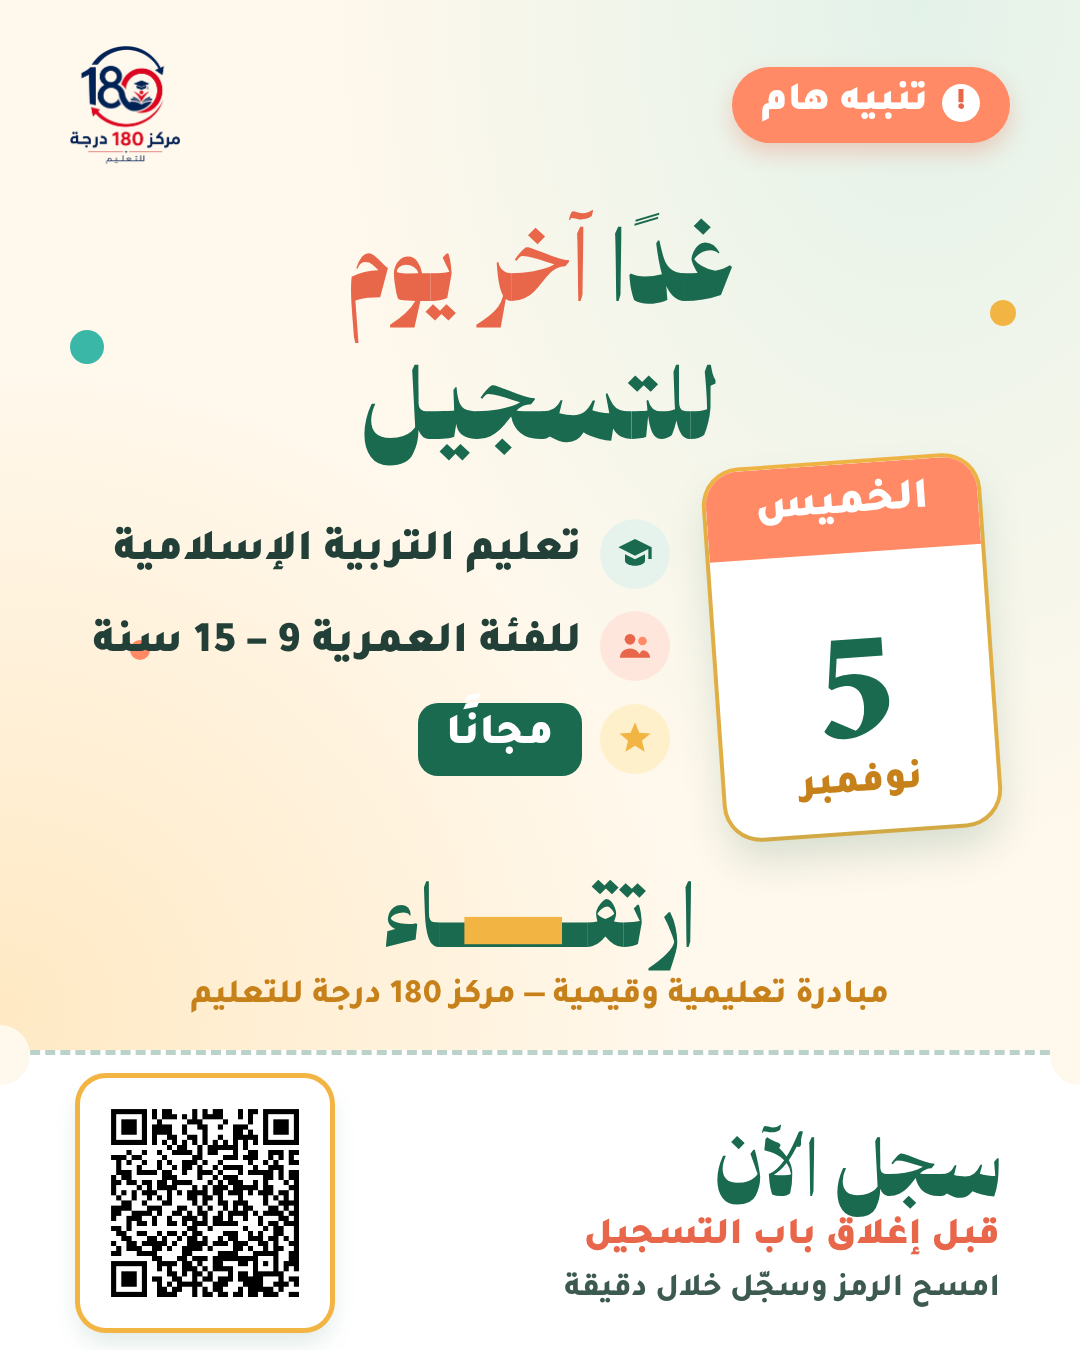
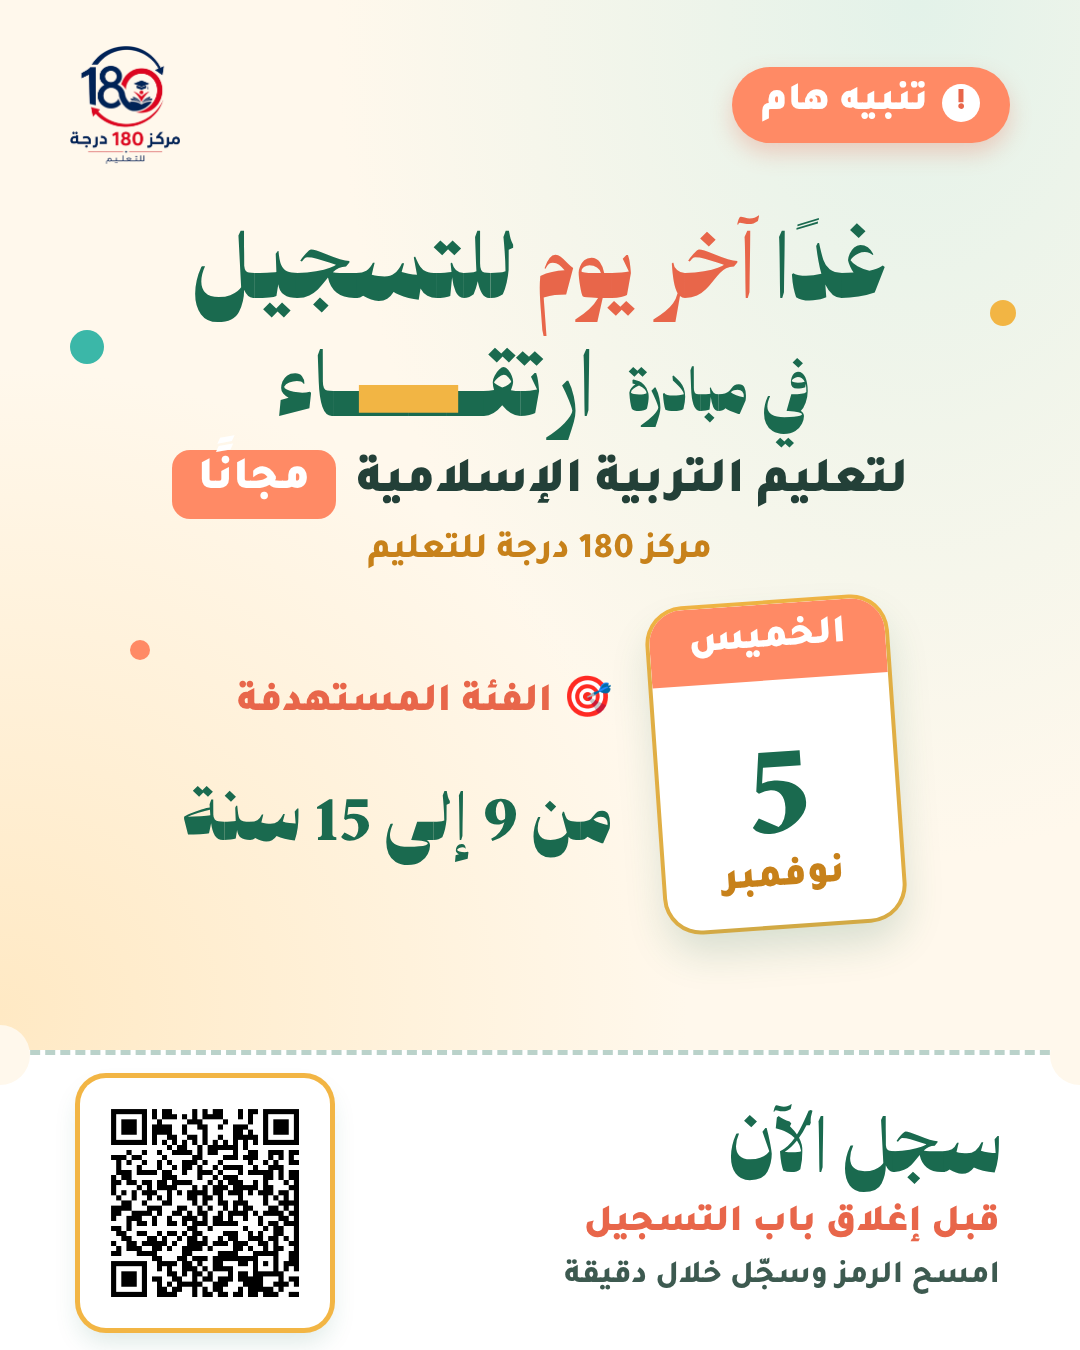
Last-day post: text order per announcement, CTA spacing fix
Claude-Session: https://claude.ai/code/session_01EW5L56JmWuYDA27LmftDCS

Changed region(s): [[0.0917, 0.1556, 0.9167, 0.7467], [0.5194, 0.8089, 0.9472, 0.9644], [0.9167, 0.4978, 0.9472, 0.5911]]

diff --git a/irtiqaa-registration/last-day/post.html b/irtiqaa-registration/last-day/post.html
@@ -22,33 +22,39 @@ html,body{margin:0;background:#fff}
 .logo{height:118px}
 
 /* headline */
-.h1{margin-top:16px;font-size:106px;line-height:1.3;color:var(--em);text-align:center}
+.h1{margin-top:22px;font-size:96px;line-height:1.35;white-space:nowrap;color:var(--em);text-align:center}
 .h1 .hl{position:relative;display:inline-block;color:var(--coralD)}
 .h1 .hl::after{content:'';position:absolute;left:4%;right:4%;bottom:22px;height:22px;background:var(--gold);opacity:.55;border-radius:12px;z-index:-1}
 
 /* middle: calendar + facts */
-.mid{margin-top:8px;width:100%;display:flex;align-items:center;justify-content:center;gap:46px}
-.cal{position:relative;width:272px;flex:none;background:#fff;border-radius:34px;overflow:hidden;box-shadow:0 22px 40px rgba(26,106,79,.18),0 0 0 4px var(--gold);transform:rotate(-4deg)}
-.cal .hd{background:var(--coral);color:#fff;text-align:center;font-weight:900;font-size:44px;padding:16px 0 20px}
+.mid{margin-top:30px;width:100%;display:flex;align-items:center;justify-content:center;gap:46px}
+.cal{position:relative;width:236px;flex:none;background:#fff;border-radius:34px;overflow:hidden;box-shadow:0 22px 40px rgba(26,106,79,.18),0 0 0 4px var(--gold);transform:rotate(-4deg)}
+.cal .hd{background:var(--coral);color:#fff;text-align:center;font-weight:900;font-size:40px;padding:12px 0 16px}
 .cal .rings{position:absolute;top:-14px;left:0;right:0;display:flex;justify-content:space-around;padding:0 60px}
 .cal .rings span{width:20px;height:40px;border-radius:12px;background:var(--emD)}
-.cal .day{text-align:center;font-family:'Palestine';font-size:168px;line-height:1.12;color:var(--em);padding-top:6px}
+.cal .day{text-align:center;font-family:'Palestine';font-size:138px;line-height:1.12;color:var(--em);padding-top:6px}
 .cal .mon{text-align:center;font-weight:900;font-size:40px;color:var(--goldD);padding:14px 0 22px}
 .facts{display:flex;flex-direction:column;gap:22px;align-items:flex-start}
 .fact{display:flex;align-items:center;gap:18px;font-weight:900;font-size:44px;color:var(--ink)}
 .fact .ic{width:70px;height:70px;border-radius:50%;flex:none;display:flex;align-items:center;justify-content:center}
 .fact .ic svg{width:40px;height:40px}
-.free{background:var(--em);color:#fff;padding:8px 28px 12px;border-radius:20px}
+.free{background:var(--coral);color:#fff;padding:4px 26px 10px;border-radius:18px;font-size:46px}
 
 /* wordmark line */
 .brand{margin-top:22px;display:flex;flex-direction:column;align-items:center}
-#wm{height:118px}
+#wm{height:120px}
+.line1{margin-top:4px;display:flex;align-items:center;gap:26px}
+.line1 .fi{font-size:64px;color:var(--em);line-height:1.4}
+.line2{margin-top:10px;font-weight:900;font-size:50px;color:var(--ink);display:flex;align-items:center;gap:20px}
+.line3{margin-top:12px;font-weight:800;font-size:36px;color:var(--goldD)}
+.tg-l{font-weight:900;font-size:40px;color:var(--coralD)}
+.tg-v{font-family:'Palestine';font-size:70px;color:var(--em);line-height:1.4;margin-top:6px}
 .brand .sub{font-weight:800;font-size:34px;color:var(--goldD);margin-top:6px}
 
 /* CTA strip */
 .cta{position:absolute;left:0;right:0;bottom:0;background:#fff;border-top:5px dashed rgba(26,106,79,.3);display:flex;align-items:center;justify-content:space-between;padding:0 80px}
 .notch{position:absolute;top:-30px;width:60px;height:60px;border-radius:50%;background:var(--iv)}
-.cta .txt .a{font-size:84px;color:var(--em);line-height:1.4}
+.cta .txt .a{font-size:80px;color:var(--em);line-height:1.2;margin-top:-26px;margin-bottom:22px}
 .cta .txt .b{font-size:38px;font-weight:900;color:var(--coralD);margin-top:2px}
 .cta .txt .c{font-size:32px;font-weight:800;color:#3D5A50;margin-top:10px}
 .qr{width:250px;height:250px;flex:none;background:#fff;border-radius:26px;box-shadow:0 0 0 5px var(--gold),0 14px 26px rgba(26,106,79,.15);display:flex;align-items:center;justify-content:center}
@@ -67,24 +73,21 @@ html,body{margin:0;background:#fff}
       <img class="logo" src="../assets/logo180.png">
     </div>
 
-    <div class="h1 disp">غدًا <span class="hl">آخر يوم</span><br>للتسجيل</div>
+    <div class="h1 disp">غدًا <span class="hl">آخر يوم</span> للتسجيل</div>
+    <div class="line1"><span class="disp fi">في مبادرة</span><div id="wm"></div></div>
+    <div class="line2">لتعليم التربية الإسلامية <span class="free">مجانًا</span></div>
+    <div class="line3">مركز 180 درجة للتعليم</div>
 
     <div class="mid">
       <div class="cal">
-                <div class="hd">الخميس</div>
+        <div class="hd">الخميس</div>
         <div class="day">5</div>
         <div class="mon">نوفمبر</div>
       </div>
       <div class="facts">
-        <div class="fact"><span class="ic" style="background:var(--emL)"><svg viewBox="0 0 24 24"><path d="M12 3 2 8l10 5 8-4v6h2V8z M6 12.2V16c0 1.7 2.7 3 6 3s6-1.3 6-3v-3.8l-6 3z" fill="#1A6A4F"/></svg></span>تعليم التربية الإسلامية</div>
-        <div class="fact"><span class="ic" style="background:#FFE6DD"><svg viewBox="0 0 24 24"><circle cx="9" cy="8" r="3.2" fill="#E8664A"/><circle cx="16.5" cy="9" r="2.6" fill="#FF8A65"/><path d="M3 19c0-3.3 2.7-5.5 6-5.5s6 2.2 6 5.5z M14 19c.2-2 1.2-3.6 2.6-4.4 2.6.1 4.4 1.9 4.4 4.4z" fill="#E8664A"/></svg></span>للفئة العمرية 9 – 15 سنة</div>
-        <div class="fact"><span class="ic" style="background:#FFF0CC"><svg viewBox="0 0 24 24"><path d="M12 2l2.6 6.2 6.7.5-5.1 4.4 1.6 6.5L12 16l-5.8 3.6 1.6-6.5L2.7 8.7l6.7-.5z" fill="#F2B544"/></svg></span><span class="free">مجانًا</span></div>
+        <div class="tg-l">🎯 الفئة المستهدفة</div>
+        <div class="tg-v">من 9 إلى 15 سنة</div>
       </div>
-    </div>
-
-    <div class="brand">
-      <div id="wm"></div>
-      <div class="sub">مبادرة تعليمية وقيمية — مركز 180 درجة للتعليم</div>
     </div>
   </div>
 
@@ -117,8 +120,8 @@ function build(){
   document.getElementById('cta').style.height=CTA+'px';
   if(STORY){
     const col=document.querySelector('.col');col.style.paddingTop='150px';
-    document.querySelector('.h1').style.marginTop='90px';document.querySelector('.h1').style.fontSize='128px';document.getElementById('wm').style.height='150px';
-    document.querySelector('.mid').style.marginTop='60px';document.querySelector('.brand').style.marginTop='80px';
+    document.querySelector('.h1').style.marginTop='90px';document.querySelector('.h1').style.fontSize='108px';document.querySelector('.h1').style.whiteSpace='normal';document.getElementById('wm').style.height='150px';
+    document.querySelector('.mid').style.marginTop='80px';document.querySelector('.cal').style.width='280px';document.querySelector('.cal .day').style.fontSize='170px';
     document.querySelector('.qr').style.cssText+='width:320px;height:320px';document.querySelector('.qr img').style.cssText='width:292px;height:292px';
   }
   wordmark(document.getElementById('wm'),130);
